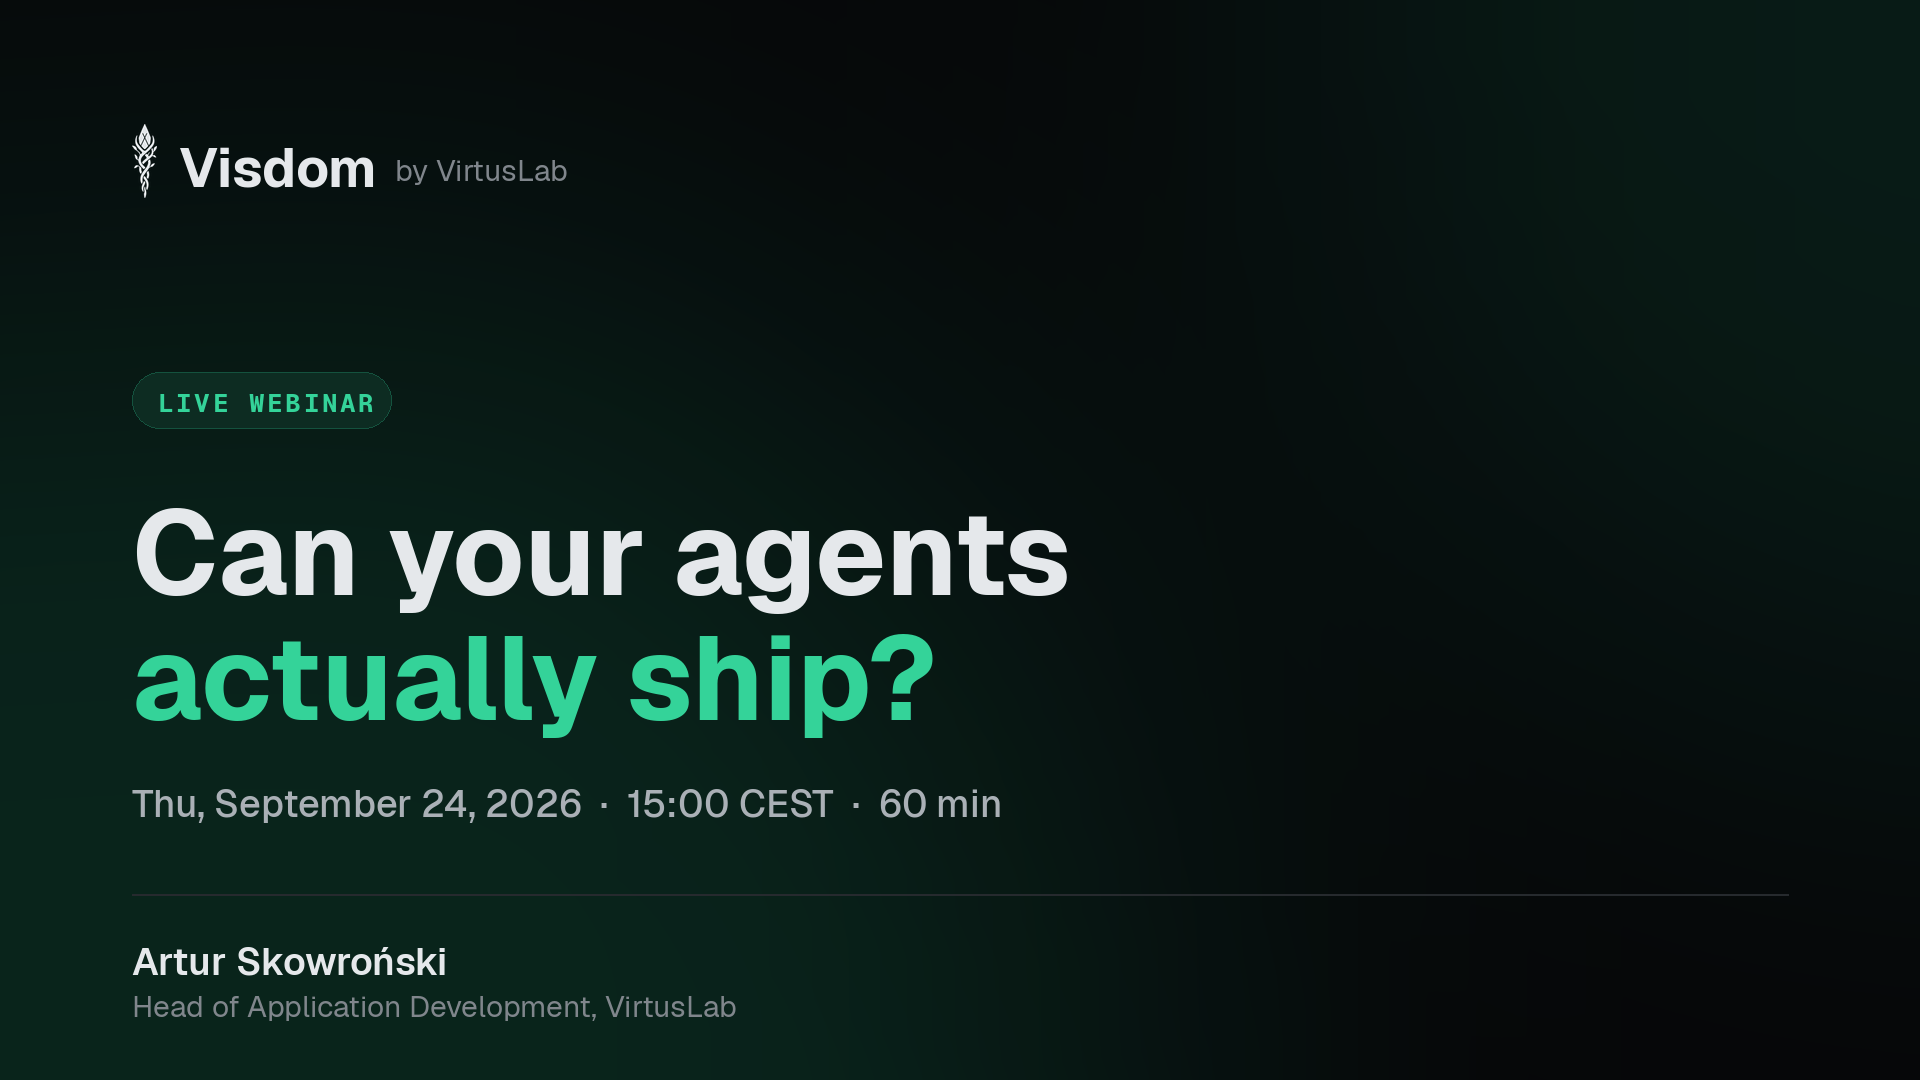
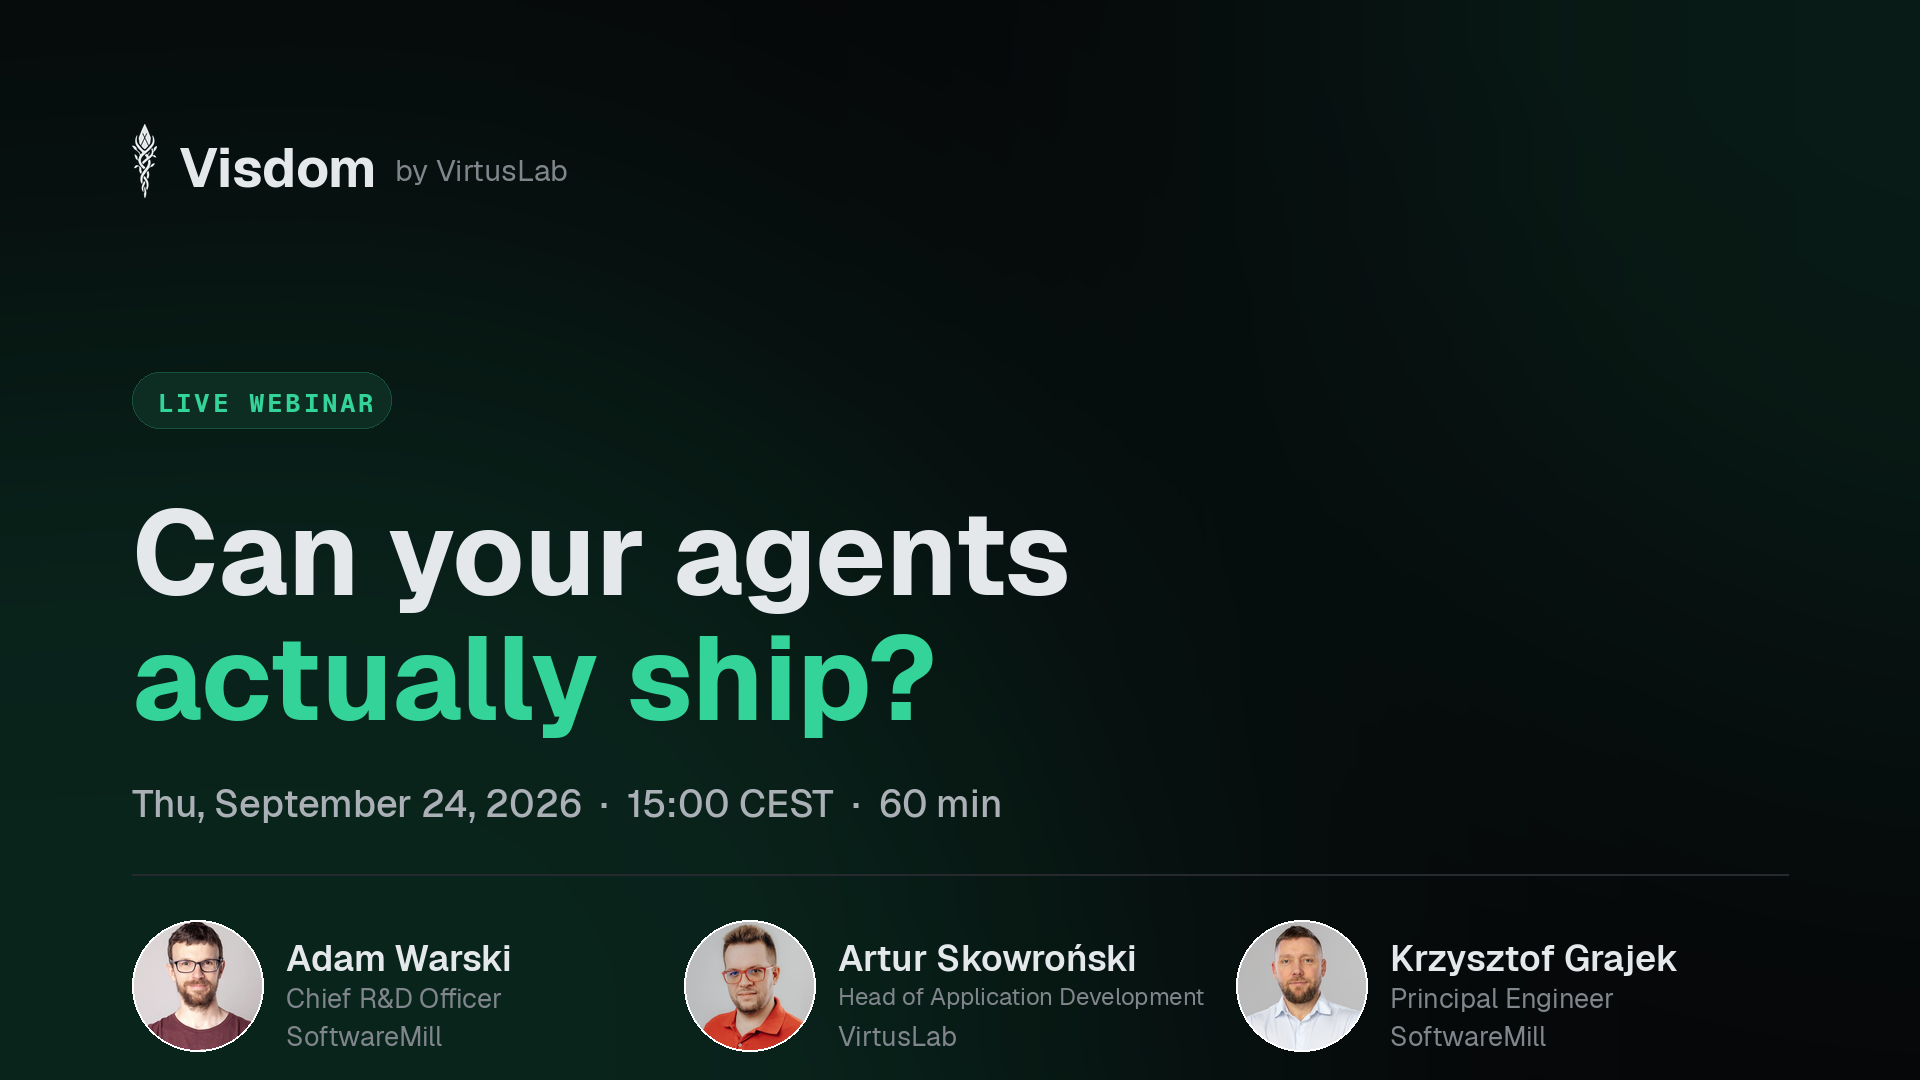
fix(webinar): put all three speakers on the Sequel cover
The cover announced one speaker for a three-speaker session. It read the
single `host` block from src/data/webinar.ts while the page and the Open Graph
card both render from SPEAKERS, so the artwork uploaded to the Sequel event
disagreed with every other surface: Artur alone, no faces, and the right half
of a 1920-wide canvas empty.

It now reads the same SPEAKERS array, and lays the three out as a row under the
rule, with portraits. Same faces as the page and the share card, so a reader who
sees one recognises the others.

Two layout fixes found by looking at the render rather than assuming:
- The longest role ran under the next portrait. Each line is now fitted to its
  own column.
- Name, role and company are stacked rather than comma-joined. Joined, the
  longest pair could not fit at a readable size, and the fallback of dropping
  the role described one speaker differently from the other two.

The `host` block is no longer read here. The brand line under the wordmark is a
constant, since it names the product owner rather than whoever is speaking.

The PNG still has to be uploaded to the Sequel event by hand; nothing about that
is automated.

Changed region(s): [[0.0625, 0.825, 0.875, 0.9778]]

diff --git a/scripts/make-sequel-cover.py b/scripts/make-sequel-cover.py
@@ -42,12 +42,24 @@ TZ = one(r"timezone:\s*'([^']+)'", 'the timezone')
 TZ_LABEL = one(r"timezoneLabel:\s*'([^']+)'", 'the timezone label')
 MINUTES = one(r'durationMinutes:\s*(\d+)', 'the duration')
 
-_host = re.search(r'host:\s*\{([\s\S]*?)\n  \},', WEB)
-if not _host:
-    raise SystemExit('make-sequel-cover: could not read the host block from src/data/webinar.ts')
-HOST_NAME = one(r"host:\s*\{\s*\n\s*name:\s*'([^']+)'", 'the host name')
-HOST_ROLE = re.search(r"role:\s*'([^']+)'", _host.group(1)).group(1)
-HOST_COMPANY = re.search(r"company:\s*'([^']+)'", _host.group(1)).group(1)
+# The brand line under the wordmark. Constant: it names the product owner, not
+# whoever happens to be speaking.
+BRAND = 'VirtusLab'
+
+# The full roster, read from the SAME array the page and the Open Graph card
+# render from. This card used to read the single `host` block instead, which is
+# why it announced one speaker for a three-speaker session and disagreed with
+# every other surface.
+ROSTER = [
+    (ROOT / 'public' / m.group(4).lstrip('/'), m.group(1), m.group(2), m.group(3))
+    for m in re.finditer(
+        r"name:\s*'([^']+)',\s*\n\s*role:\s*'([^']*)',\s*\n\s*company:\s*'([^']+)',"
+        r"[\s\S]*?photo:\s*'([^']+)'",
+        WEB[WEB.index('export const SPEAKERS'):],
+    )
+]
+if not ROSTER:
+    raise SystemExit('make-sequel-cover: could not read SPEAKERS from src/data/webinar.ts')
 
 _local = datetime.fromisoformat(STARTS_AT.replace('Z', '+00:00')).astimezone(ZoneInfo(TZ))
 WHEN = (
@@ -121,7 +133,7 @@ img.paste(crest, (PAD, PAD - 8), crest)
 wx = PAD + crest.width + 22
 d.text((wx, PAD), 'Visdom', font=sans('Bold', 54), fill=TEXT)
 wend = wx + d.textlength('Visdom', font=sans('Bold', 54))
-d.text((wend + 18, PAD + 18), f'by {HOST_COMPANY}', font=sans('Regular', 30), fill=MUTED)
+d.text((wend + 18, PAD + 18), f'by {BRAND}', font=sans('Regular', 30), fill=MUTED)
 
 # Live badge.
 y = 372
@@ -149,11 +161,43 @@ if HEAD_ACCENT:
 wy = hy + line_h * (2 if HEAD_ACCENT else 1) + 52
 d.text((PAD, wy), WHEN, font=sans('Medium', 38), fill=SECONDARY)
 
-# Host, under a hairline rule.
-ry = wy + 116
+# Speakers, under a hairline rule, as a row across the full width. The old
+# single-line host sat on the left and left the right half of a 1920-wide card
+# empty; three faces both fix the count and use the space.
+ry = wy + 96
 d.line((PAD, ry, W - PAD, ry), fill=RULE, width=2)
-d.text((PAD, ry + 42), HOST_NAME, font=sans('SemiBold', 38), fill=TEXT)
-d.text((PAD, ry + 92), f'{HOST_ROLE}, {HOST_COMPANY}', font=sans('Regular', 30), fill=MUTED)
+
+DIA = 132
+top = ry + 46
+slot = (W - PAD * 2) // len(ROSTER)
+mask = Image.new('L', (DIA, DIA), 0)
+ImageDraw.Draw(mask).ellipse((0, 0, DIA - 1, DIA - 1), fill=255)
+nf, rf = sans('SemiBold', 36), sans('Regular', 27)
+for i, (path, name, role, company) in enumerate(ROSTER):
+    x = PAD + i * slot
+    if path.exists():
+        p_img = Image.open(path).convert('RGB').resize((DIA, DIA), Image.LANCZOS)
+        img.paste(p_img, (x, top), mask)
+        d.ellipse((x, top, x + DIA - 1, top + DIA - 1), outline=(255, 255, 255, 46), width=2)
+        tx = x + DIA + 22
+    else:
+        tx = x
+    # Name, role and company on their own lines. One line could not hold
+    # "Head of Application Development, VirtusLab" inside a 552px column, and
+    # shrinking it far enough to fit made it unreadable while dropping the role
+    # left one speaker described differently from the other two. Stacking keeps
+    # every speaker described the same way and nothing overflows.
+    d.text((tx, top + 14), name, font=nf, fill=TEXT)
+    # Each line is fitted to its own column. Without this the longest role
+    # ("Head of Application Development") runs right into the next portrait.
+    avail = slot - (tx - x) - 24
+    ly = top + 60
+    for part in ([role] if role else []) + [company]:
+        psize = 27
+        while psize > 20 and d.textlength(part, font=sans('Regular', psize)) > avail:
+            psize -= 1
+        d.text((tx, ly), part, font=sans('Regular', psize), fill=MUTED)
+        ly += 38
 
 img.save(OUT, quality=92, optimize=True)
 print('zapisano', OUT, img.size)
